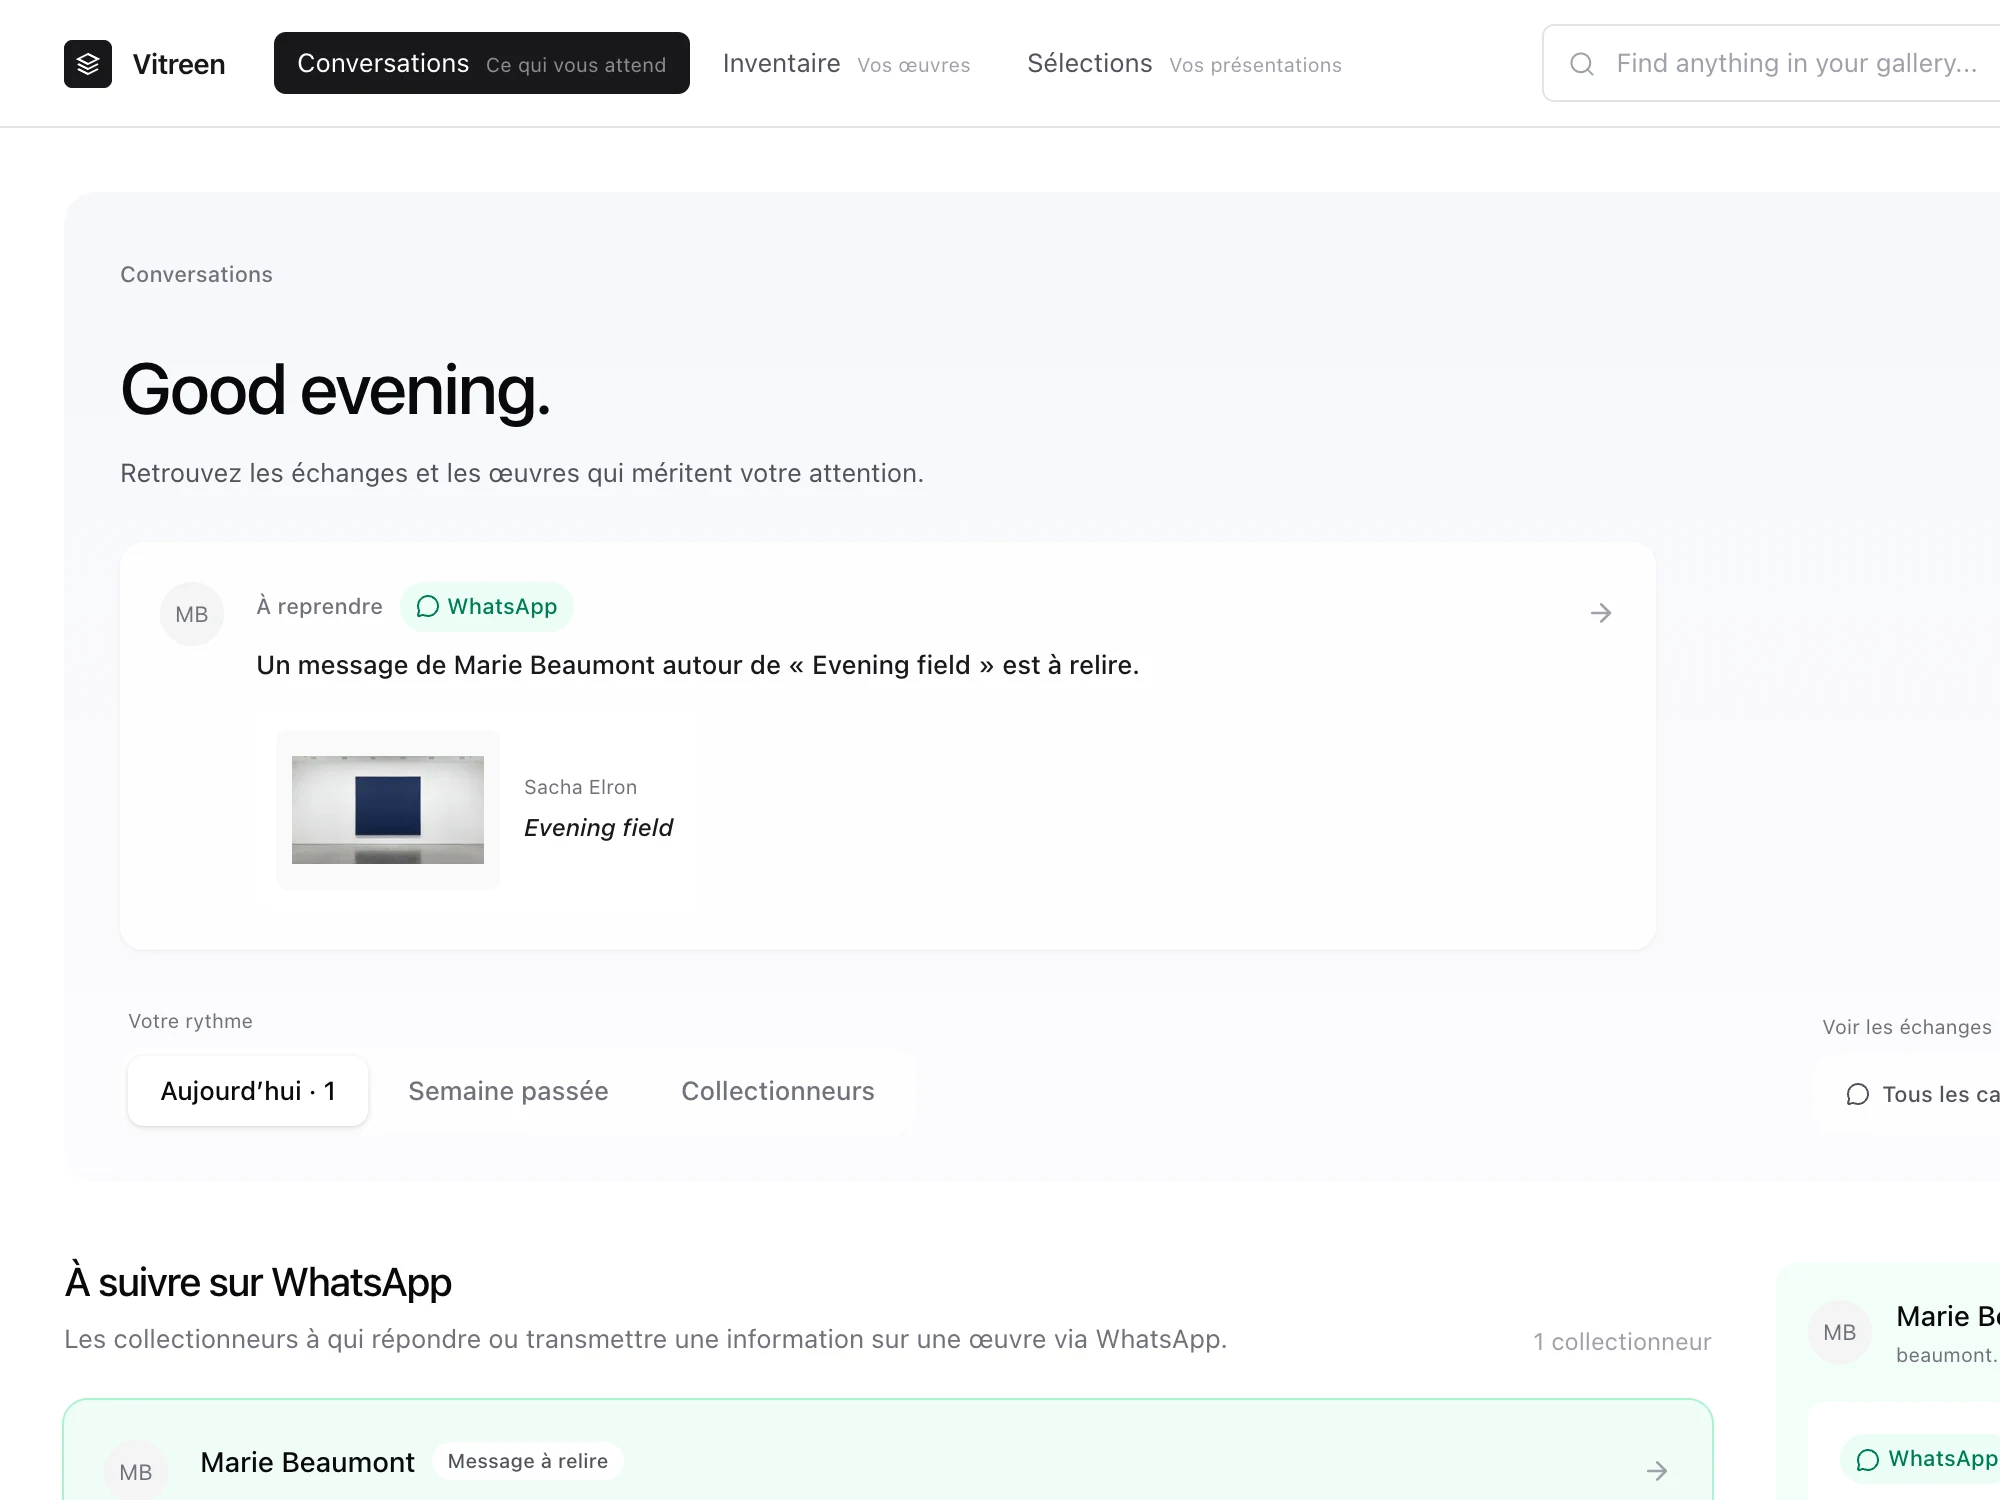
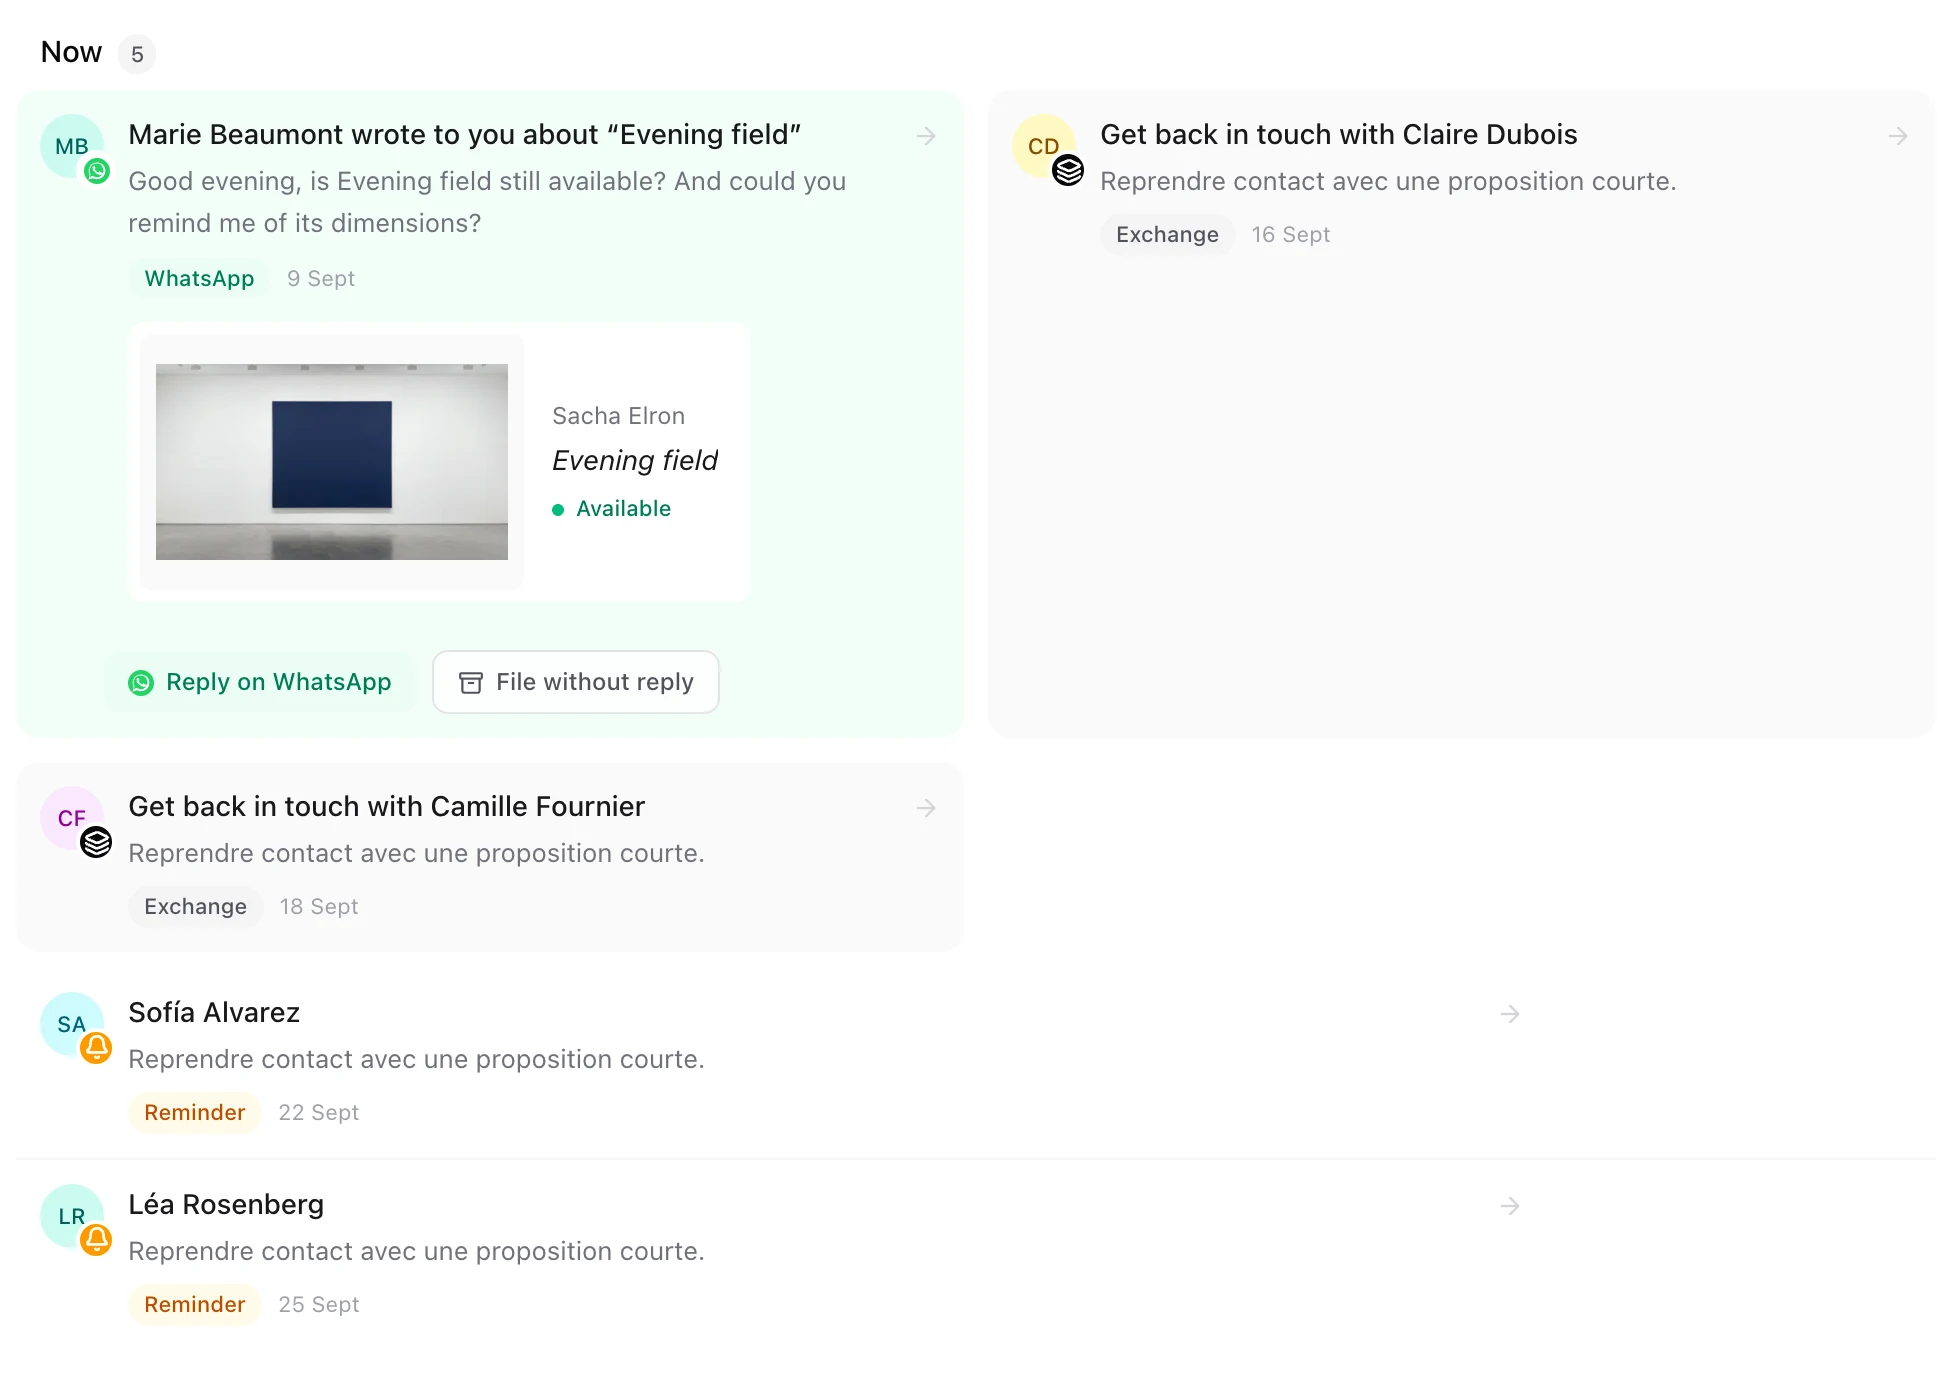
Use the dashboard's real Now list for the assistant beat
Replace the earlier capture, taken from a feature branch, with one from
the dashboard on main: the Now list of the Conversations page on the
demo gallery, from Marie Beaumont's WhatsApp message about Evening
field to the collectors to get back in touch with. The question box
above it stays out of the frame, since the product cards at the top of
the home already show it.

diff --git a/components/landing/LandingRelationships.tsx b/components/landing/LandingRelationships.tsx
@@ -229,12 +229,12 @@ function BeatVisual({ beat, copy }: { beat: BeatKey; copy: RelationshipsCopy }) 
       <div className="absolute left-[7%] top-[9%] w-full">
         <MockFrame>
           {beat === "assistant" ? (
-            // A capture of the real Conversations home, on the demo gallery.
+            // A capture of the dashboard's "Now" list (main), on the demo gallery.
             <img
               src="/product/conversations-today.webp"
               alt=""
-              width={1000}
-              height={750}
+              width={980}
+              height={690}
               className="block h-auto w-full"
             />
           ) : beat === "link" ? (
